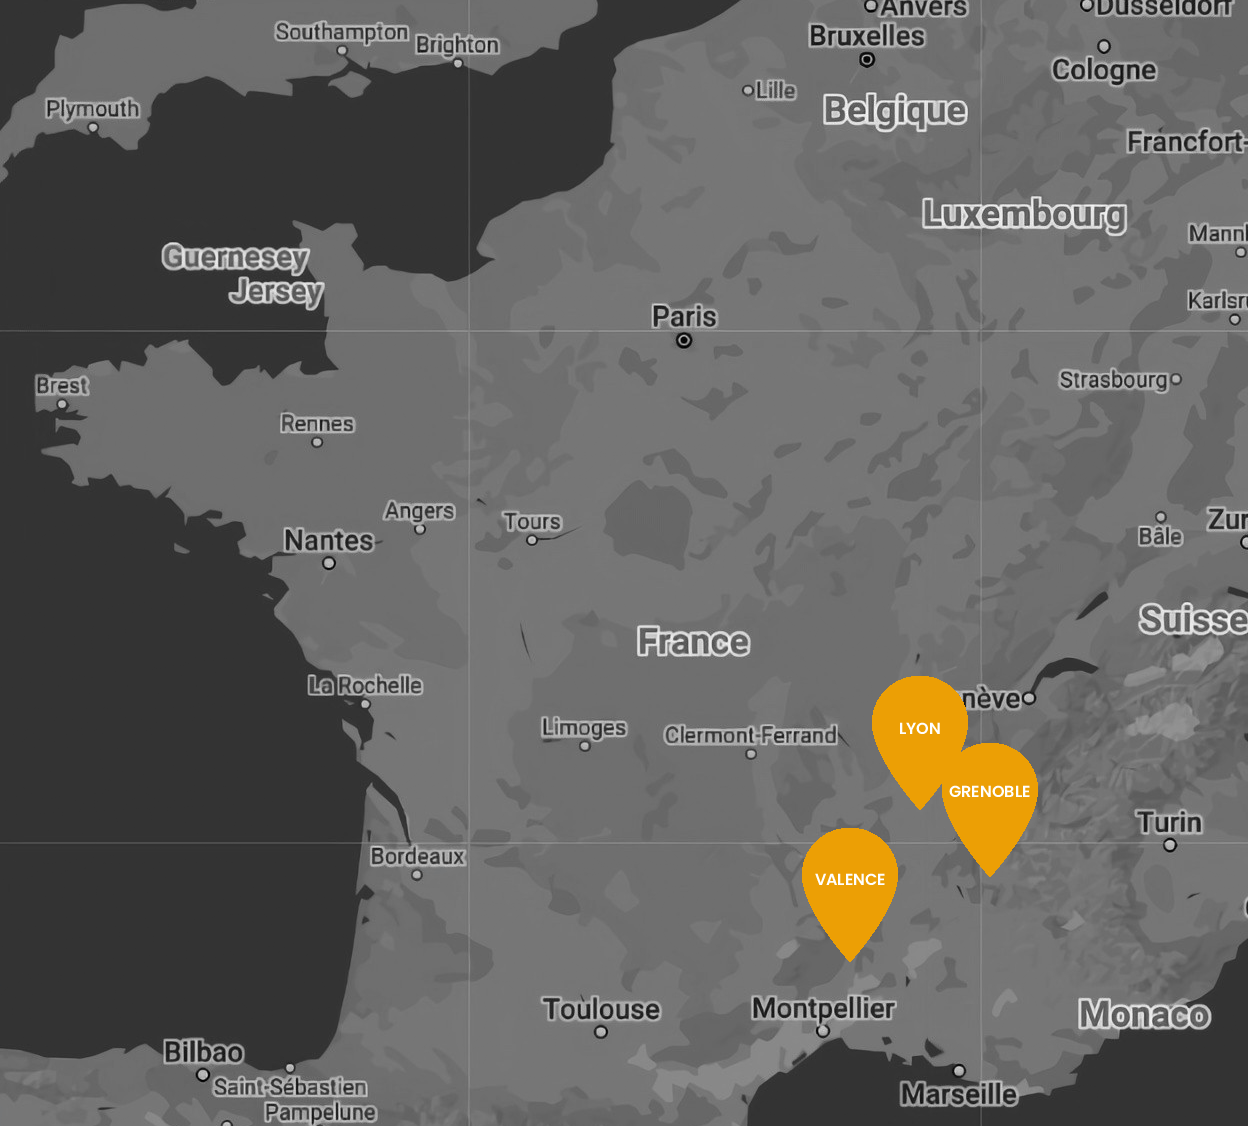
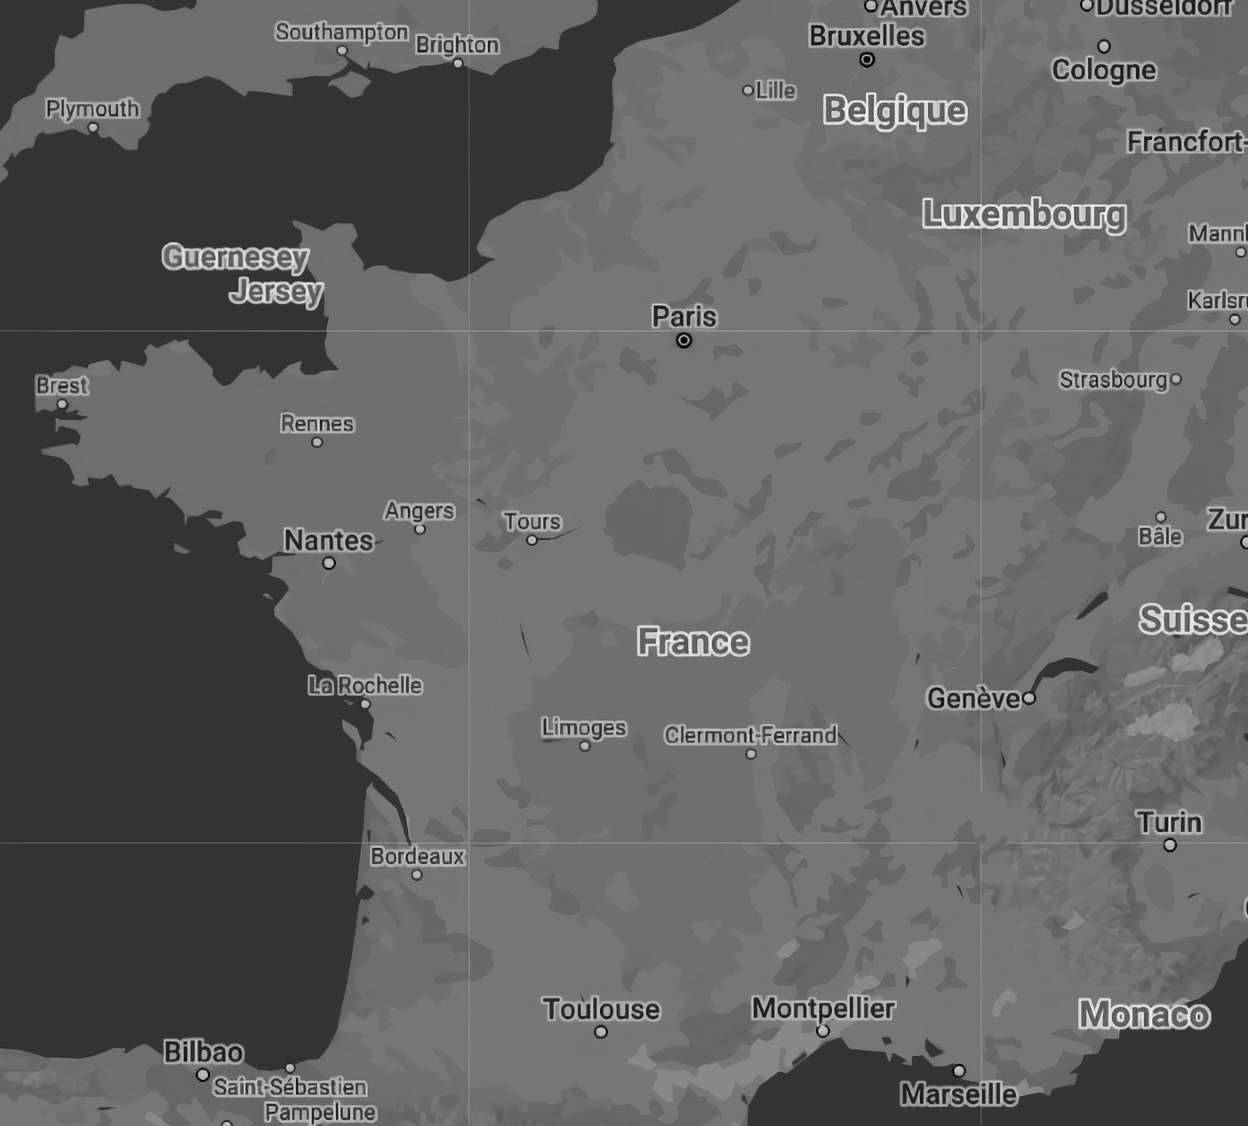
changed email.js service key, changed partners

Changed region(s): [[0.6875, 0.5906, 0.8438, 0.7771], [0.625, 0.7149, 0.7188, 0.8703]]

diff --git a/src/views/AProposView.vue b/src/views/AProposView.vue
@@ -3,9 +3,23 @@
     <div class="title-container"><h2>A propos</h2></div>
     <div class="horizontal-block">
       <div class="horizontal-block__text">
-        <div class="map" src="@/assets/map.png" alt="carte itfs"></div>
-        <h3 class="horizontal-block__text__title">Qui sommes nous ?</h3>
-        <p class="horizontal-block__text__subtitle">
+        <div class="map" src="@/assets/map.png" alt="carte itfs">
+          <div class="map__pin"></div>
+          <div class="map__pin__location">Paris</div>
+          <div class="map__pin__location">Valence</div>
+          <div class="map__pin__location">Grenoble</div>
+          <div class="map__pin__location">St-Etienne</div>
+          <div class="map__pin__location">Annecy</div>
+          <div class="map__pin__location">Chambéry</div>
+          <div class="map__pin__location">Bordeaux</div>
+          <div class="map__pin__location">Montélimar</div>
+          <div class="map__pin__location">Aubagne</div>
+          <div class="map__pin__location">Digne-les-bains</div>
+          <div class="map__pin__location">Aubenas</div>
+          <div class="map__pin__location">Modane</div>
+        </div>
+        <h3 class="horizontal-block__location__title">Qui sommes nous ?</h3>
+        <p class="horizontal-block__location__subtitle">
           ITFS est une entreprise française originaire de la Savoie. Notre
           objectif : permettre aux passionnés de trouver leur voie et gagner en
           compétences afin qu'ils s'intègrent durablement au marché du travail.
@@ -72,13 +86,16 @@
           <img src="@/assets/partners/aries.png" alt="logo aries" />
         </div>
         <div class="partners-block__frames__frame">
-          <img src="@/assets/partners/sup2i.png" alt="logo sup2i" />
+          <img src="@/assets/partners/cci-valence.png" alt="logo cci valence" />
         </div>
         <div class="partners-block__frames__frame">
           <img
-            src="@/assets/partners/sp-formation.jpg"
-            alt="logo sp-formation"
+            src="@/assets/partners/cci-grenoble.jpeg"
+            alt="logo cci grenoble"
           />
+        </div>
+        <div class="partners-block__frames__frame">
+          <img src="@/assets/partners/epsi.svg" alt="logo epsi" />
         </div>
       </div>
     </div>
@@ -118,14 +135,53 @@
 
     .map {
       width: 100%;
+      max-width: 800px;
       height: 360px;
       background-image: url("@/assets/map.png");
       background-position: center bottom;
       background-size: cover;
       border-radius: $border-radius;
+      position: relative;
+      display: flex;
+      justify-content: center;
+      align-items: center;
+      flex-wrap: wrap;
+      gap: 16px;
+      padding: 16px;
 
       @media (min-width: $tablet) {
         width: 100%;
+      }
+      &__pin {
+        position: absolute;
+        background-image: url("@/assets/icons/map-marker.svg");
+        width: 200px;
+        height: 100px;
+        inset: 0 0 0 0;
+        margin: auto;
+        cursor: pointer;
+        transition: opacity 0.2s linear;
+        transform: rotate(0deg);
+        display: flex;
+        align-items: center;
+        justify-content: center;
+        filter: drop-shadow(0px 10px 6px rgba(0, 0, 0, 0.2));
+
+        &:hover {
+          opacity: 0.1;
+        }
+        &:hover ~ .map__pin__location {
+          display: unset;
+        }
+
+        &__location {
+          font-weight: $light-weight;
+          display: none;
+          padding: 4px 8px;
+          height: fit-content;
+          border-radius: $border-radius;
+          background-color: $secondary-color;
+        }
       }
     }
 
@@ -197,8 +253,9 @@
       padding: 24px 170px;
     }
 
-    & p {
+    & h3 {
       font-size: 20px;
+      font-weight: $medium-weight;
     }
     &__frames {
       width: 100%;

diff --git a/src/components/ReferencesSlider.vue b/src/components/ReferencesSlider.vue
@@ -34,14 +34,16 @@
         <img src="@/assets/references/13bca_blason.png" alt="logo 13ème bca" />
         <img src="@/assets/references/logo_eurometa.jpg" alt="logo eurometa" />
         <img src="@/assets/references/Logo_La_Teppe.png" alt="logo la teppe" />
-        <img
-          src="@/assets/references/logo-sp-formation.png"
-          alt="logo sp-formation"
-        />
+        <img src="@/assets/references/cci-valence.png" alt="logo cci valence" />
         <img
           src="@/assets/references/Photowatt_LogoCouleur.png"
           alt="logo photowatt"
         />
+        <img
+          src="@/assets/references/cci-grenoble.jpeg"
+          alt="logo cci grenoble"
+        />
+        <img src="@/assets/references/epsi.svg" alt="logo epsi" />
       </div>
     </infinite-slide-bar>
   </div>

diff --git a/src/components/FormComponent.vue b/src/components/FormComponent.vue
@@ -211,7 +211,7 @@ export default {
 
       if (!this.$v.$invalid) {
         await emailjs.sendForm(
-          "service_f0ns79q",
+          "service_s7u0ilk",
           "template_w7w5617",
           this.$refs.form,
           "ZAG2PeOHvH8fTwjpW"
